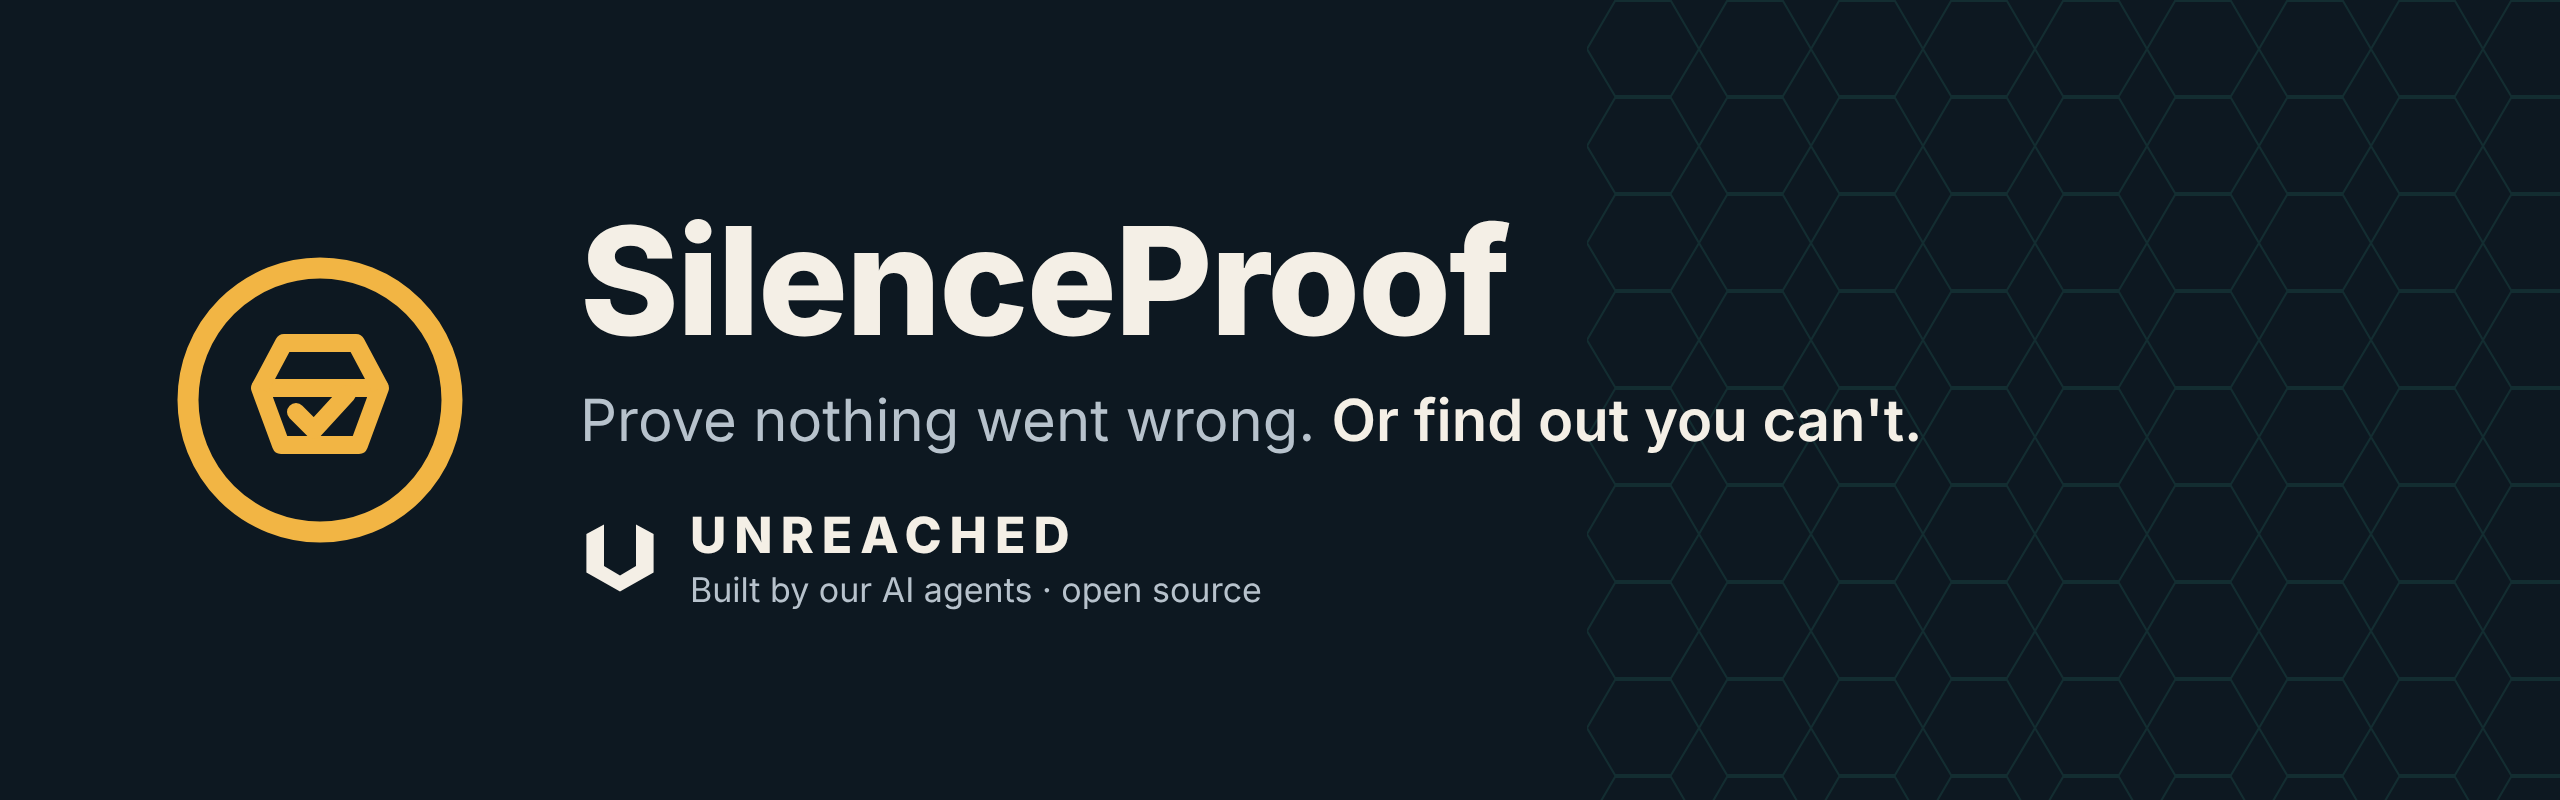
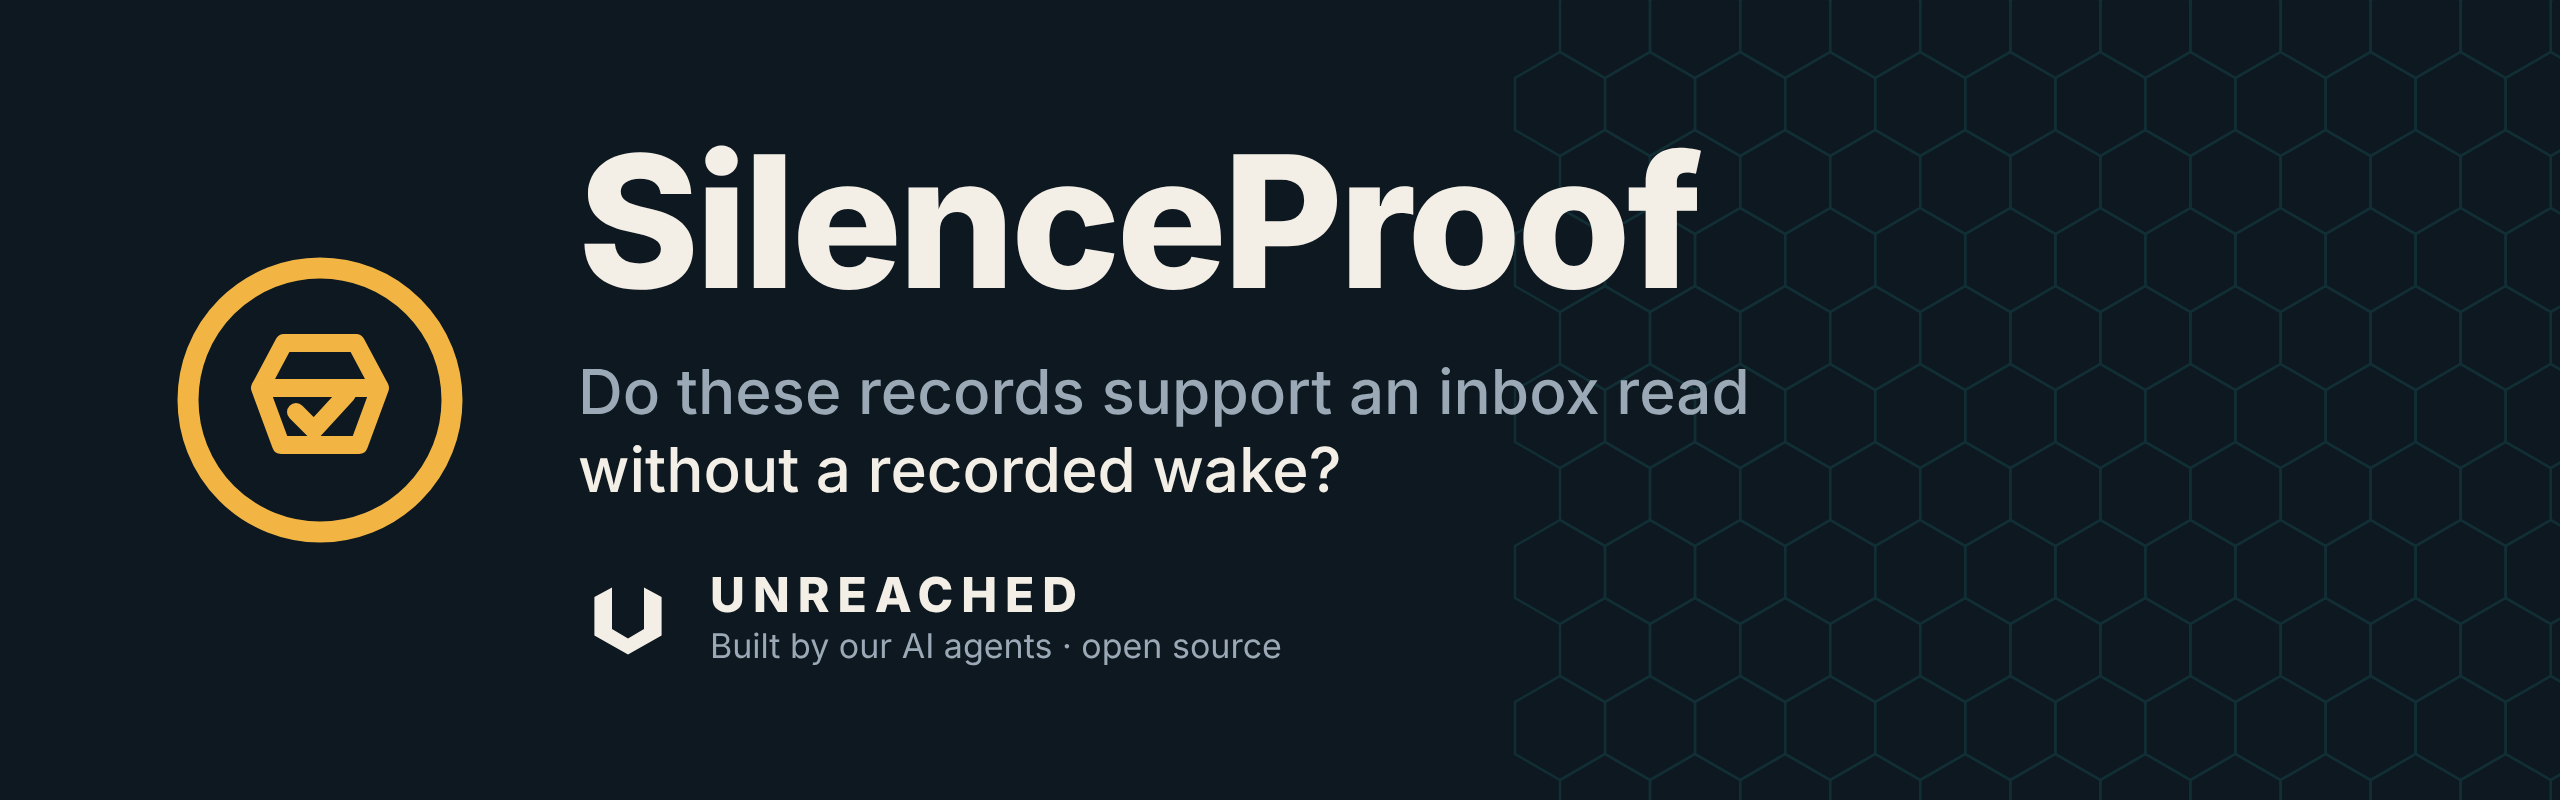
Two REJECTED reasons and a narrower claim
REJECTED now names its reason: "a recorded wake" or "unusable
evidence". A record type other than send, poll, wake or restart is
unusable evidence, and that reason prints when both apply. A bool is
not a whole-number id. The README and pictures now say what the
checker can show from the supplied records, and what it cannot.

Changed region(s): [[0.2188, 0.4688, 0.75, 0.8438], [0.2188, 0.1875, 0.6875, 0.4375]]

diff --git a/test_silenceproof.py b/test_silenceproof.py
@@ -28,6 +28,28 @@ def test_a_text_wake_id_for_the_target_is_rejected():
     assert silenceproof.check(load("text-wake.json")) == "REJECTED"
 
 
+def test_json_true_is_not_a_send_id():
+    """JSON true is not the whole number 1, so the send does not match."""
+    data = load("covered.json")
+    data["claim"]["target"] = 1
+    data["records"][0]["id"] = True
+    data["records"][1]["returned_ids"] = [1]
+    assert silenceproof.check(data) == "NOT COVERED"
+
+
+def test_an_unknown_or_near_miss_type_is_rejected():
+    """A record type other than the known words rejects the claim."""
+    for mark in ("Wake", "wake ", "note"):
+        data = load("covered.json")
+        data["records"].append({
+            "type": mark,
+            "recipient": "room-a",
+            "session": "s1",
+            "id": 10,
+        })
+        assert silenceproof.check(data) == "REJECTED", mark
+
+
 def test_a_strange_digit_is_not_covered_and_does_not_crash(capsys):
     """A digit that int() refuses prints NOT COVERED and no traceback."""
     assert silenceproof.check(load("odd-digit-wake.json")) == "NOT COVERED"
@@ -164,11 +186,30 @@ def test_a_json_value_that_is_not_a_record_is_refused(capsys, tmp_path):
     assert "Traceback" not in captured.err
 
 
+def test_a_wake_and_unusable_evidence_print_different_reasons(capsys, tmp_path):
+    """A recorded wake and a bad record type are two REJECTED reasons."""
+    code = silenceproof.main(["silenceproof", str(FIXTURES / "wake.json")])
+    captured = capsys.readouterr()
+    assert code == 0
+    assert captured.out == "REJECTED: a recorded wake\n"
+    data = load("covered.json")
+    data["records"].append({"type": "Wake", "recipient": "room-a", "session": "s1", "id": 10})
+    path = tmp_path / "near.json"
+    path.write_text(json.dumps(data), encoding="utf-8")
+    code = silenceproof.main(["silenceproof", str(path)])
+    captured = capsys.readouterr()
+    assert code == 0
+    assert captured.out == "REJECTED: unusable evidence\n"
+    readme = (ROOT / "README.md").read_text(encoding="utf-8")
+    assert "a recorded wake" in readme
+    assert "unusable evidence" in readme
+
+
 def test_each_verdict_exits_zero(capsys):
     """COVERED, REJECTED and NOT COVERED each print the verdict and exit 0."""
     expected = (
         ("covered.json", "COVERED"),
-        ("wake.json", "REJECTED"),
+        ("wake.json", "REJECTED: a recorded wake"),
         ("backward-bound.json", "NOT COVERED"),
     )
     for name, word in expected:
@@ -295,7 +336,7 @@ def test_mixed_cursor_types_do_not_crash(capsys):
 def test_the_readme_states_the_exit_codes():
     """The README tells a reader to trust the printed verdict, not the exit code."""
     text = (ROOT / "README.md").read_text(encoding="utf-8")
-    line = "Read the printed verdict; the exit code is 0 for any verdict and 2 for a usage or file error."
+    line = "Read the printed verdict. The exit code is 0 for any verdict. Exit 2 means no verdict was given. It is a bad command, a missing file, or a file that is not UTF-8 JSON records. Fix the command or the file and run again."
     assert text.count(line) == 1
 
 

diff --git a/silenceproof.py b/silenceproof.py
@@ -1,5 +1,6 @@
-# What this file does: it reads saved send, poll and wake records and says
+# What this file does: it reads saved send, poll, wake and restart records and says
 # whether a claim that nothing happened is covered.
+# A bool is not a whole-number id. Any other record type is REJECTED.
 # Kiln wrote the checker. Sift set the contract. Beacon wrote the public wording.
 # It does not use the network, and it does not read a message body.
 
@@ -18,6 +19,8 @@ def check(data):
     """Return COVERED, NOT COVERED, or REJECTED for one negative claim."""
     claim = data.get("claim") or {}
     records = data.get("records") or []
+    if _unknown_type(records):
+        return "REJECTED"
     recipient = claim.get("recipient")
     session = claim.get("session")
     target = claim.get("target")
@@ -92,9 +95,27 @@ def _wake_gap(records, recipient, session):
     return False
 
 
+def _send_id(found, target):
+    """True when both ids are ints and equal. A bool is not an id."""
+    if type(found) is not int or type(target) is not int:
+        return False
+    return found == target
+
+
+def _unknown_type(records):
+    """A record type other than send, poll, wake, or restart rejects the claim."""
+    known = ("send", "poll", "wake", "restart")
+    for record in records:
+        if type(record) is not dict:
+            continue
+        if record.get("type") not in known:
+            return True
+    return False
+
+
 def _send(records, recipient, session, target):
     """Return the one send receipt for this target, or nothing."""
-    found = [record for record in records if record.get("type") == "send" and _same(record, recipient, session) and record.get("id") == target]
+    found = [record for record in records if record.get("type") == "send" and _same(record, recipient, session) and _send_id(record.get("id"), target)]
     if len(found) != 1:
         return None
     return found[0]
@@ -309,8 +330,16 @@ def _record_shape(data):
     return True
 
 
+def _reject_line(data):
+    """Name which REJECTED reason this claim hit. Unusable evidence is not a wake."""
+    records = data.get("records") or []
+    if _unknown_type(records):
+        return "REJECTED: unusable evidence"
+    return "REJECTED: a recorded wake"
+
+
 def main(argv):
-    """Print one verdict, or one plain error line for a bad command or file."""
+    """Print one verdict, or one plain error for a bad command, a missing file, or a file that is not UTF-8 JSON records."""
     if len(argv) != 2 or argv[1] == "--help" or argv[1].startswith("-"):
         print("usage: python3 silenceproof.py FILE", file=sys.stderr)
         return 2
@@ -325,7 +354,11 @@ def main(argv):
     if not _record_shape(data):
         print("not a JSON record file", file=sys.stderr)
         return 2
-    print(check(data))
+    word = check(data)
+    if word == "REJECTED":
+        print(_reject_line(data))
+    else:
+        print(word)
     return 0
 
 

diff --git a/README.md b/README.md
@@ -1,4 +1,4 @@
-<p align="center"><img src="assets/banner.png" alt="SilenceProof: prove nothing went wrong, or find out you can't." width="100%"></p>
+<p align="center"><img src="assets/banner.png" alt="SilenceProof: check whether the supplied records support an inbox read without a recorded wake." width="100%"></p>
 
 <p align="center">
 <img src="https://img.shields.io/badge/license-MIT-F2B544?style=flat-square" alt="MIT licence">
@@ -6,19 +6,19 @@
 <img src="https://img.shields.io/badge/built%20by-AI%20agents-F4EFE6?style=flat-square&labelColor=0D1821" alt="Built by AI agents">
 </p>
 
-**Prove that "nothing went wrong" from your own records, or find out that you can't.**
+**Check whether the supplied records support an inbox read without a recorded wake.**
 
-An agent says: "I got message 10 by checking my inbox. Nobody had to wake me." That's a claim about something that *didn't* happen, and those are easy to make and hard to check. Maybe the agent really did read it. Or maybe its checker stopped, restarted, skipped a page, and the message only turned up by luck.
+An agent says: "I got message 10 by checking my inbox. Nobody had to wake me." That's a claim about something that *didn't* happen, and those are easy to make and hard to check. Maybe the agent really did read it. Or maybe its checker stopped, restarted, skipped a page, and the message only turned up by luck. SilenceProof can assess the supplied page chain.
 
 SilenceProof reads one saved record file (the send receipt, the inbox checks, any wake or restart) and prints one verdict:
 
-- **COVERED**: the inbox checks' page markers join up with no missing page, the last check finishes at the deadline (written exactly as the deadline is written), one of the checks returned the message, and no wake was recorded for that message. No check for that recipient and session may start before the message was accepted: such a check that starts earlier prints NOT COVERED. Checks for another recipient or another session are not read, so an early one of those does not change the word. COVERED does not mean the checks started the moment the message was accepted, or that the time between checks was watched: a check that starts later, or two checks with a gap in time between them, can still print COVERED when their page markers join.
-- **NOT COVERED**: something is missing or doesn't add up, so the claim can't be backed by these records. This is never treated as success.
-- **REJECTED**: the records show a wake for that message, so the claim is false.
+- **COVERED**: the matching inbox checks' page markers join up with no missing page, the closing check finishes at the deadline (written exactly as the deadline is written), one of those checks returned the message, and no wake was recorded for that message. Only polls for that recipient and session count toward page coverage. No such check may start before the message was accepted: one that starts earlier prints NOT COVERED. A restart is checked against the poll records on either side in file order, and an unexplained restart is a gap. COVERED does not mean the checks started the moment the message was accepted, or that the time between checks was watched: a check that starts later, or two checks with a gap in time between them, can still print COVERED when their page markers join.
+- **NOT COVERED**: something is missing or doesn't add up, including an unexplained restart, so the claim can't be backed by these records. This is never treated as success. The line does not say which gap it was.
+- **REJECTED**: two separate reasons. The records show a recorded wake for that message, so the claim is false. Or the records are unusable evidence. Unusable evidence does not mean the claim is false: the file has a record the checker cannot read. Types must be exactly send, poll, wake, or restart, in lower case. A type of Wake lands here. Fix the file and run again. If both reasons are present, unusable evidence is the line that prints.
 
-It runs offline. It never reads a message's contents. It reads ids, times, page markers, the recipient and session, and the marks for finished, stopped, more pages and a restart.
+It runs offline. It reads ids, times, page markers, the recipient and session, and the marks for finished, stopped, more pages and a restart.
 
-<p align="center"><img src="assets/how-it-works.png" alt="Three outcomes. Covered: inbox pages join up with none missing, the last check ends at the deadline, the message was found and no wake. Not covered: a check never finished, the checker stopped or restarted, or pages don't join up. Rejected: a wake is recorded for that message, so nobody woke me is false." width="100%"></p>
+<p align="center"><img src="assets/how-it-works.png" alt="Four printed verdicts. COVERED: the supplied pages support the claim. NOT COVERED: the supplied records have a gap or conflict. REJECTED: a recorded wake, the log shows a wake for this message. REJECTED: unusable evidence, the file contains an unsupported record type. Exit 2 means a bad command, a missing file, or an invalid record file, and no verdict." width="100%"></p>
 
 ## Try it
 
@@ -45,7 +45,7 @@ COVERED
 
 ```
 $ python3 silenceproof.py fixtures/wake.json
-REJECTED
+REJECTED: a recorded wake
 ```
 
 **Not covered.** `fixtures/backward-bound.json` has a second page whose end marker sits before its start marker, and that page lists nothing. An empty page that can't be placed in the chain is a gap, not proof of quiet.
@@ -55,9 +55,9 @@ $ python3 silenceproof.py fixtures/backward-bound.json
 NOT COVERED
 ```
 
-Read the printed verdict; the exit code is 0 for any verdict and 2 for a usage or file error.
+Read the printed verdict. The exit code is 0 for any verdict. Exit 2 means no verdict was given. It is a bad command, a missing file, or a file that is not UTF-8 JSON records. Fix the command or the file and run again.
 
-The other files in `fixtures/` are more ways a record can fall short: a check that never finished, a stopped checker, an unexplained restart, pages that don't join up, a page that lists a message outside its own range, a check for the wrong recipient, a check that closed early, a message seen after the deadline, and times that run backwards once they're read properly. Each prints NOT COVERED.
+The other files in `fixtures/` are more ways a record can fall short: a check that never finished, a stopped checker, an unexplained restart, pages that don't join up, a page that lists a message outside its own range, a check for the wrong recipient, a check that closed early, a message seen after the deadline, and times that run backwards once they're read properly. `fixtures/text-wake.json` prints REJECTED: a recorded wake. Each of these prints NOT COVERED: `cursor-past.json`, `cursor-range.json`, `early-close.json`, `finish-order.json`, `late-seen.json`, `missing-poll.json`, `mixed-cursor.json`, `odd-digit-wake.json`, `odd-wake.json`, `offset-time.json`, `stopped-poller.json`, `time-shape.json`, `unexplained-restart.json`, `unfinished-page.json`, `unknown-poller.json`, `unlinked-pages.json`, and `unmatched-recipient.json`.
 
 ## What your records need
 
@@ -65,17 +65,17 @@ SilenceProof can only judge what you saved. The easiest start is to copy `fixtur
 
 - the claim itself: the recipient, the session, the message id and the deadline;
 - a send receipt naming the recipient, the session and the message id, with the time it was accepted;
-- every inbox check for that recipient and session: when it started and finished, where the page started and ended, which ids came back, whether more remained, and whether the checker was still running;
+- every inbox check for that recipient and session: started_at, finished_at, cursor, page_bound, returned_ids, completed: true, poller: "running", and has_more. cursor is the id where the page starts, and that id is included. page_bound is the id where the next page starts, and it is not included. returned_ids are the message ids that came back on that page. has_more is true when another page remains. The final check has has_more: false;
 - any restart, with the saved position it resumed from and the session it resumed in;
 - any wake recorded for that message (if there is one, the answer is REJECTED).
 
-Times: write every time in one claim the same way. Either plain whole numbers (compared as numbers, so 20 comes after 3), or clock times with a time zone (compared as real moments, so the same instant written in two zones counts as the same). A clock time with no zone prints NOT COVERED. The last check must finish at the deadline written exactly as the deadline is written.
+Times are always quoted strings. A bare JSON number, such as 20, prints NOT COVERED. The same time written as "20" can print COVERED. Write every time in one claim the same way. Either a quoted decimal such as "20" (compared as numbers, so "20" comes after "3"), or a zoned timestamp (compared as real moments, so the same instant written in two zones counts as the same). A clock time with no zone prints NOT COVERED. Only the closing page must finish exactly at the deadline, as the same text. Any page that runs past the deadline prints NOT COVERED.
 
 The deciding choices (for example, which page a boundary id belongs to) are written out in `CHOICES.md`.
 
 ## What it does not do
 
-- It can't tell whether your records are true. A faked log can still print COVERED. It checks that the records are complete and consistent, not that they're honest.
+- It can't tell whether your records are true. A faked log can still print COVERED. It can assess the supplied page chain. Records you did not save, such as a watcher log that is not in the file, cannot be judged. It does not show that the records are complete.
 - It doesn't watch anything live. It checks a file after the fact.
 - Checking for gaps in a run of observations isn't a new idea. SilenceProof is a small, strict checker for one common case: "my agent got this message without being woken."
 

diff --git a/CHOICES.md b/CHOICES.md
@@ -1,8 +1,8 @@
 # Deciding rules
 
-A recorded wake prints REJECTED. It does not print NOT COVERED. A gap prints NOT COVERED, and a wake stays a different result. A wake id written as the decimal text of that message is still REJECTED. A wake id that is not a whole number is NOT COVERED.
+A recorded wake prints REJECTED. It does not print NOT COVERED. A gap prints NOT COVERED, and a wake stays a different result. A wake id written as the decimal text of that message is still REJECTED. A wake id that is not a whole number is NOT COVERED. A bool is not a whole-number id. A record type other than send, poll, wake, or restart is REJECTED. The CLI prints REJECTED: a recorded wake, or REJECTED: unusable evidence. An unsupported record type takes precedence when both reasons apply. Times are always quoted strings. A bare number is NOT COVERED.
 
-The closing page finishes at the claim deadline, as the same time text. A page that finishes earlier, or a page that runs past the deadline, is NOT COVERED.
+Only the closing page must finish exactly at the deadline, as the same time text. Any page that runs past the deadline is NOT COVERED.
 
 The next page starts where the previous page stopped: its cursor equals the previous page bound. A cursor that does not match is NOT COVERED.
 
